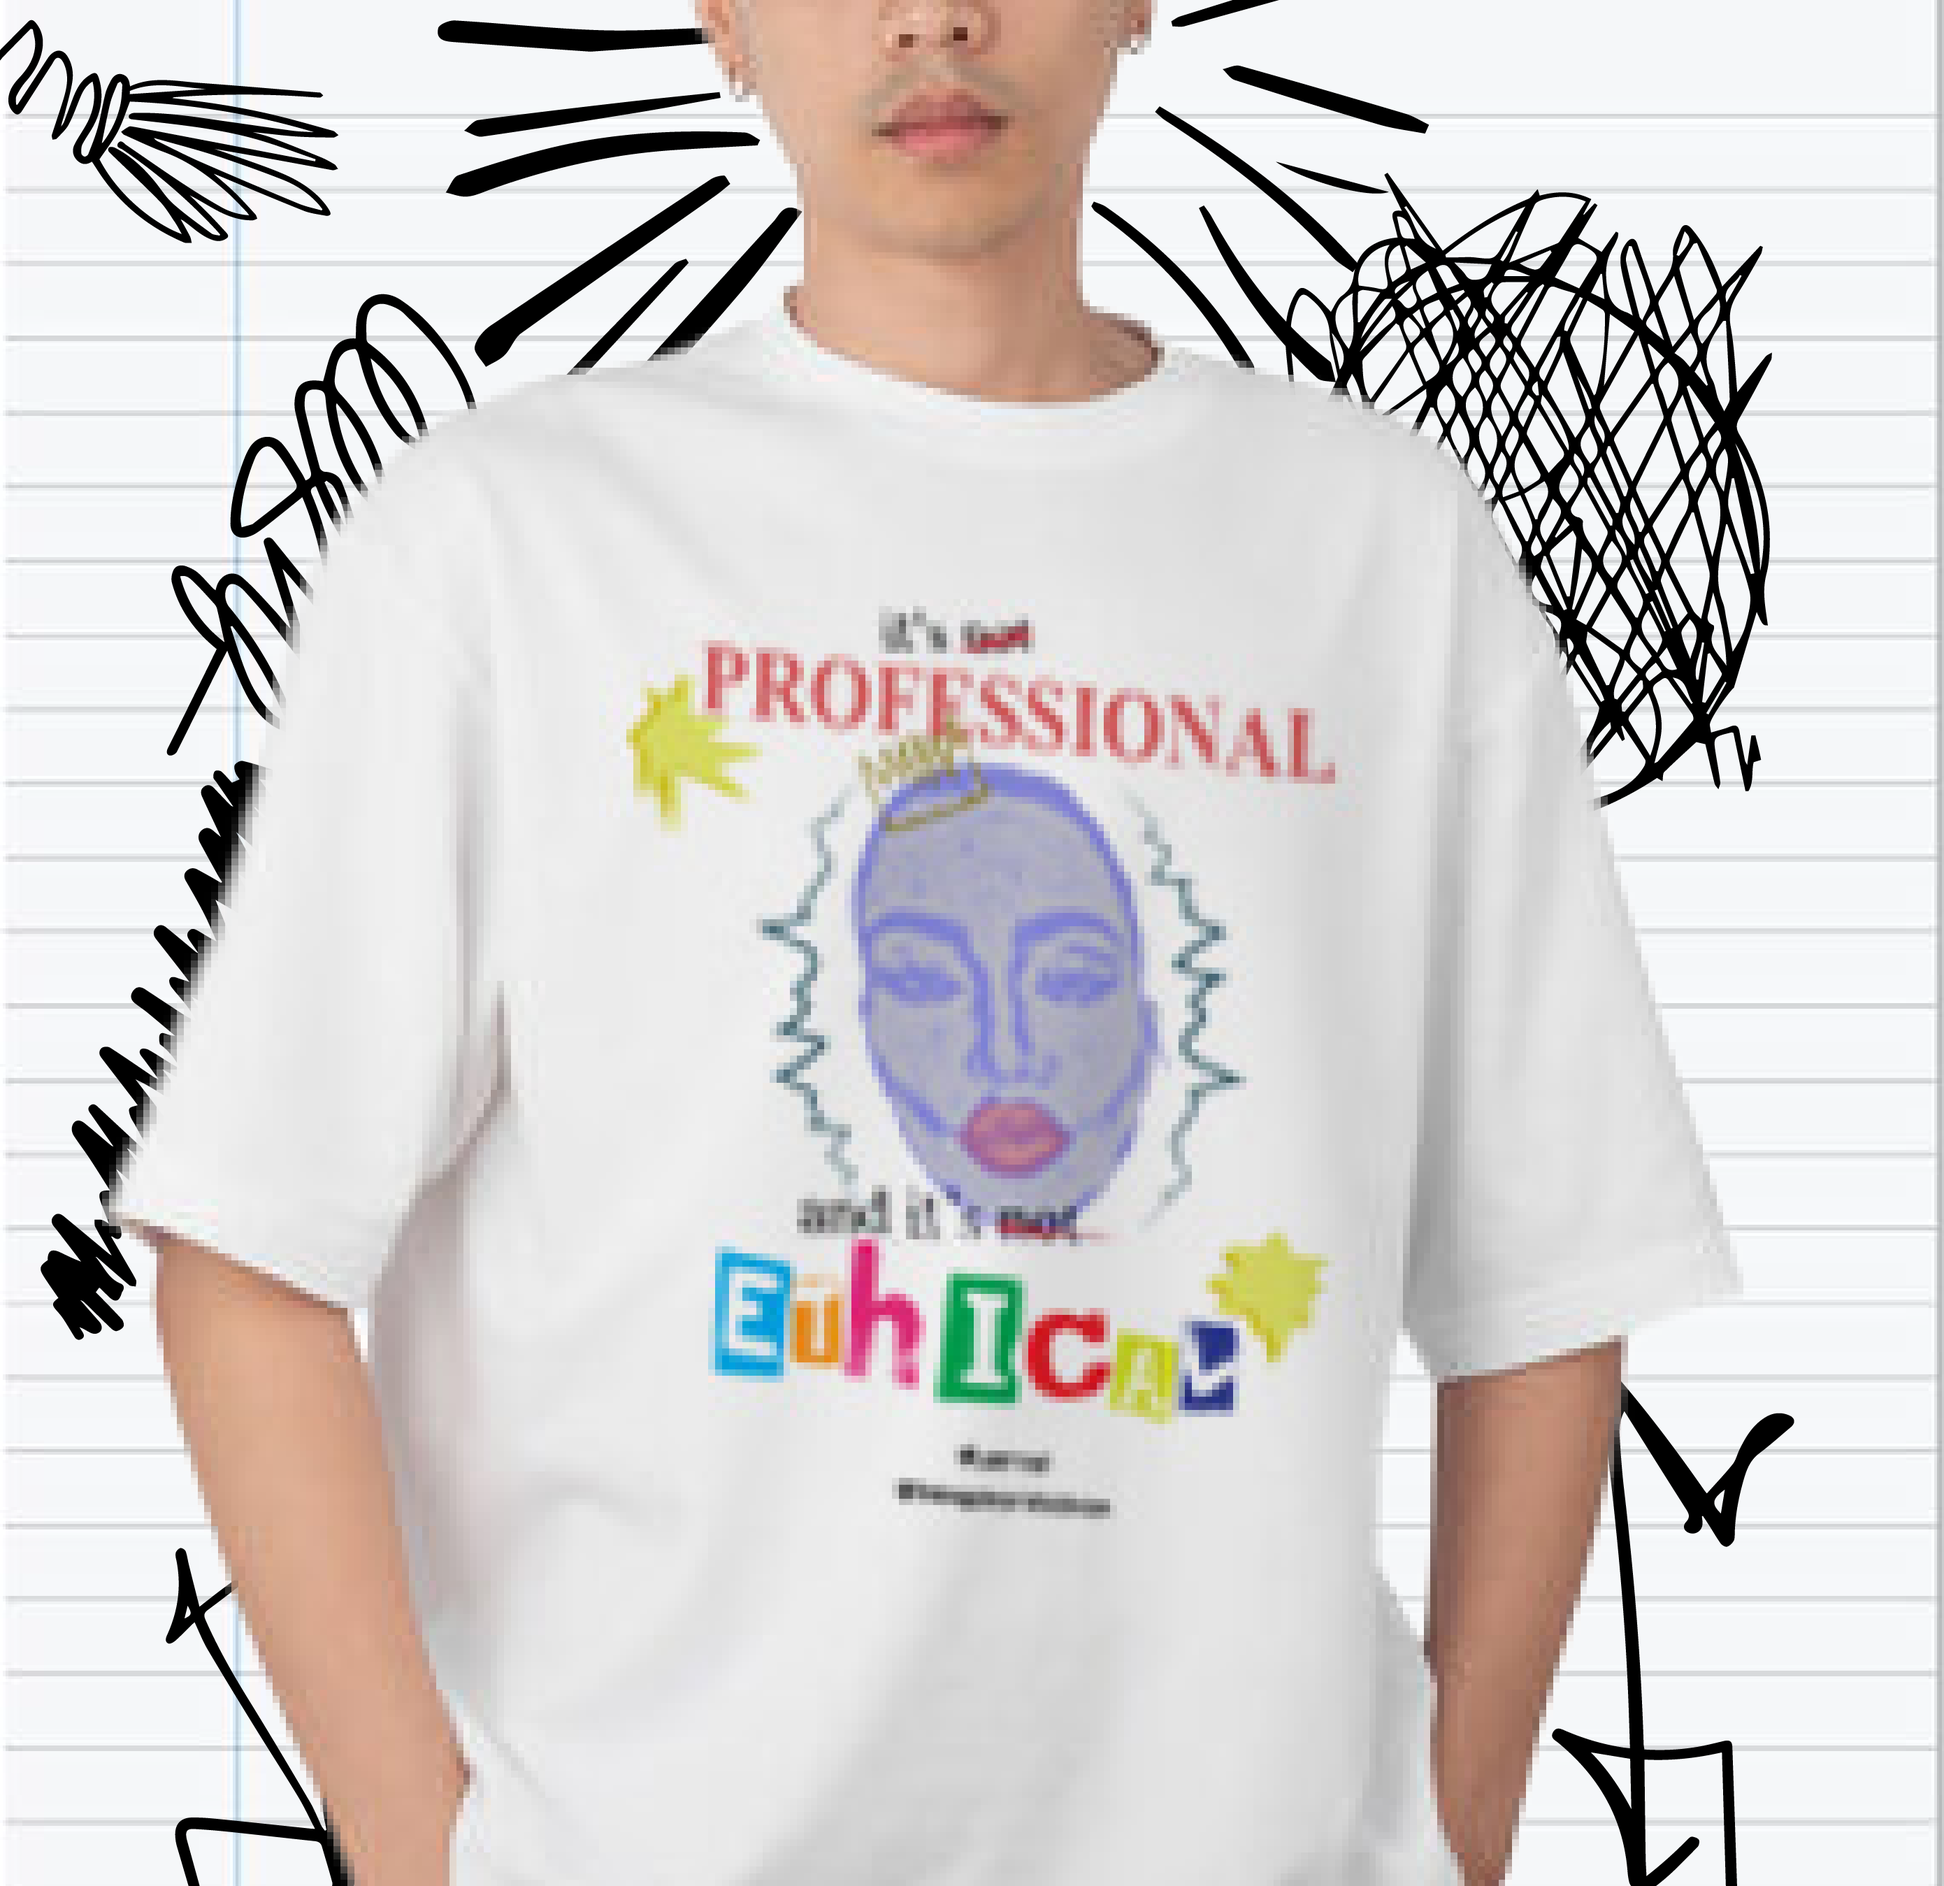
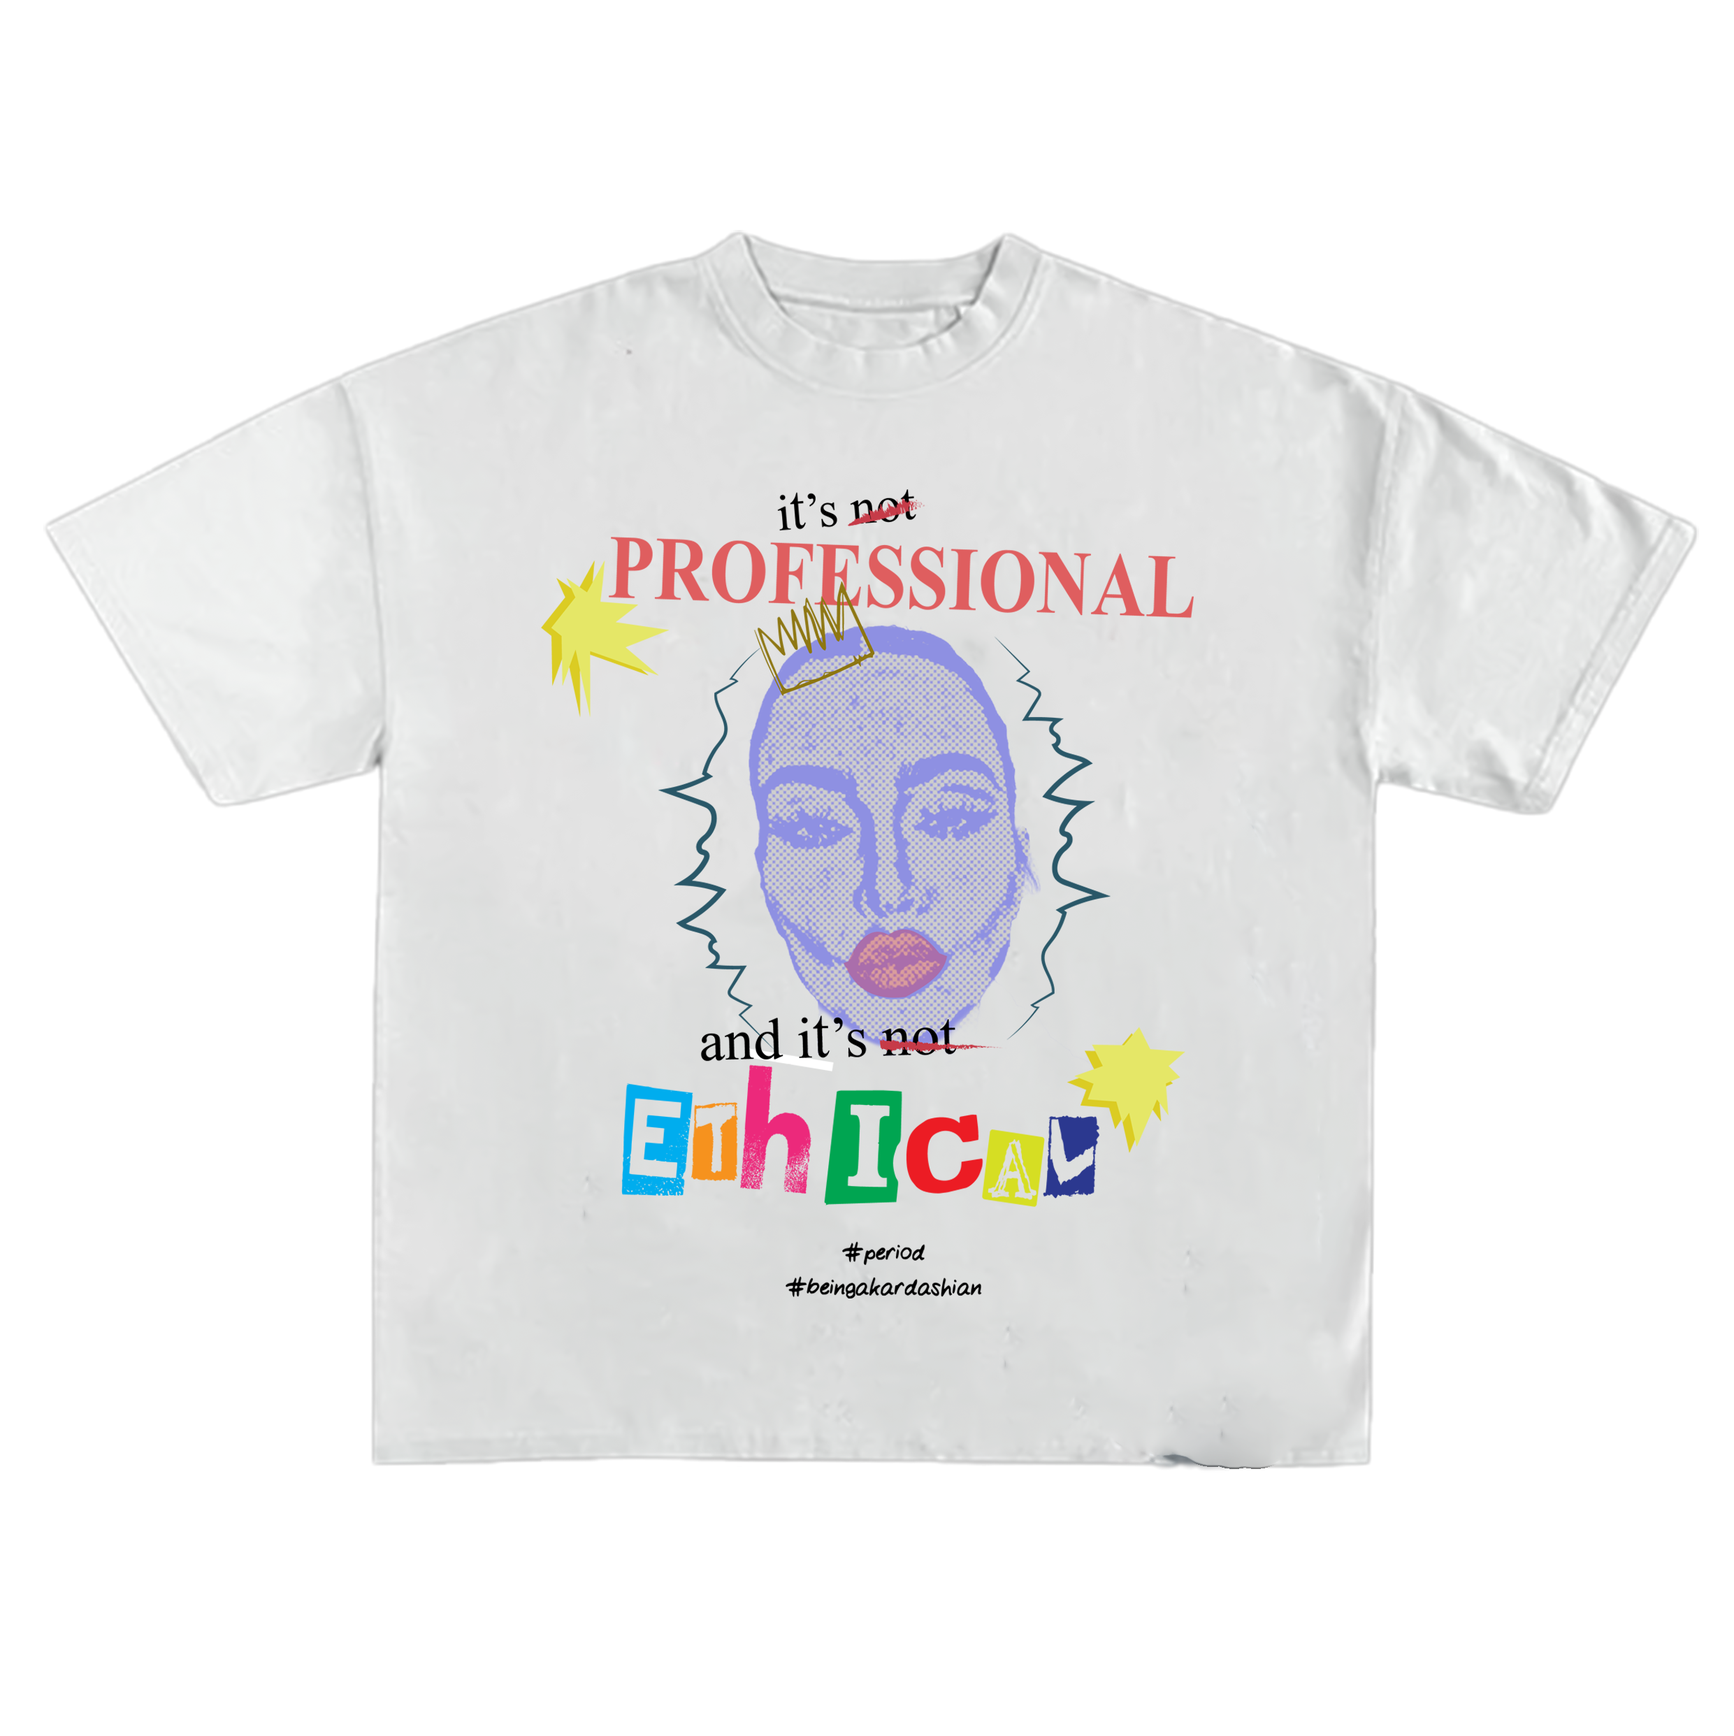
finalised t-shirt article
arranged the image grid and updated the image preview for the projects page.

diff --git a/Website Portfolio/t-shirt.html b/Website Portfolio/t-shirt.html
@@ -1,0 +1,75 @@
+<!DOCTYPE html>
+<html lang="en">
+
+<head>
+    <meta charset="UTF-8">
+    <meta name="viewport" content="width=device-width, initial-scale=1.0">
+    <title>T-Shirt Visual</title>
+
+    <link rel="stylesheet" href="assets/styling/articles/t-shirt.css">
+    <link rel="stylesheet" href="assets/styling/bootstrap.css">
+    <link rel="stylesheet" href="assets/styling/master.css">
+</head>
+
+<body class="black-bg">
+
+    <div class="container">
+        <div class="row">
+            <div class="back-arrow">
+                <a href="projects.html">
+                    <img src="assets/images/back-arrow-white.png" class="back-arrow" alt="Arrow">
+                </a>
+            </div>
+        </div>
+    </div>
+
+    <div class="row">
+        <div class="col-8">
+            <h1>T-Shirt Design - "its not professional and it's not ethical"</h1>
+
+            <p>The brief was to create a t-shirt design for a fashion company called "cringecore", which bring bold and
+                playful exploration of the "cringe" aesthetic, embracing humor, irony, and a touch of nostalgia. So I
+                thought of these two famous Tiktokers from the US, who impersonate the Kardashians and recreate scenes
+                from 'The Kardashians' TV Series. They refer to using quotes like "its not professional, and its not
+                ethical", "Nnyyeeaaahhh" or even a "your dramatic and pathetic, gurl bye!"... which is very sassy but
+                funny. I thought it works well with the brief, so I took on this decision to build up with and create
+                designs.
+                <br>
+                <br>
+                Here below are some of the other ideas I had, which I haven't use as the final idea. I wanted to explore
+                different styles and visual interpretations to show the idea, to make it look appealing as a t-shirt.
+                However, I wanted to keep up with a more constructed visual research, so I thought of sticking to a more
+                modern-grunge look to it.
+                <br>
+                <br>
+                Using photo manipulation, adding saturated colour and more treatment on texture, it helped everything to
+                blend in. With the help of visual research, I looked at text treatment, and noticed the idea of
+                dynamisim, using angles and serif-fonts. The final result came to this, here on the right. I am really
+                happy with the final design, and been thinking to actually print the design on a t-shirt in the future
+                soon.
+            </p>
+        </div>
+        <div class="col-4">
+            <img src="assets/images/t-shirt-visual1.png" class="preview5" alt="visual">
+        </div>
+    </div>
+
+    <h3>these are some other ideas & sketches I had for the T-Shirt Design</h3>
+    <div class="wrapper">
+        <div class="gallery">
+            <ul>
+                <li><img src="assets/images/sketch-02.png"></li>
+                <li><img src="assets/images/sketch-04.png"></li>
+                <li><img src="assets/images/sketch-09.png"></li>
+                <li><img src="assets/images/sketch-10.png"></li>
+                <li><img src="assets/images/sketch-16.png"></li>
+                <li><img src="assets/images/sketch-15.png"></li>
+                <li><img src="assets/images/sketch-18.png"></li>
+                <li><img src="assets/images/sketch-25.png"></li>
+            </ul>
+        </div>
+    </div>
+
+</body>
+
+</html>

diff --git a/Website Portfolio/assets/styling/articles/t-shirt.css b/Website Portfolio/assets/styling/articles/t-shirt.css
@@ -1,0 +1,140 @@
+body {
+    font-family: 'coolvetica';
+  }
+  
+  .black-bg {
+    background-color: black;
+  }
+  
+  .back-arrow img {
+    margin-top: 40px;
+    margin-left: -40px;
+    padding-bottom: 30px;
+    width: 70px;
+  }
+  
+  h1 {
+    color: white;
+    margin-left: 80px;
+    margin-top: 100px;
+    padding-top: 20px;
+    font-family: 'coolvetica';
+  }
+  
+  .col-8 p {
+    color: white;
+    font-family: Arial, Helvetica, sans-serif;
+    text-align: justify;
+    margin-left: 80px;
+    margin-right: 80px;
+    /* Adjust as needed */
+    padding-top: 40px;
+    z-index: 1;
+    position: relative
+  }
+  
+  .preview5 {
+    width: 400px;
+    padding-left: 10px;
+    margin-top: 160px;
+  }
+
+  h3 {
+	text-align: center;
+	font-family: 'coolvetica';
+	margin-left: 80px;
+	padding-top: 30px;
+  }
+
+  /* image grid display */
+
+  .wrapper {
+	width: 80%;
+	margin: 40px auto;
+}
+
+div.gallery {
+	margin-top: 30px;
+	}
+	
+	div.gallery ul {
+		list-style-type: none;
+		margin-left: 35px;
+		padding-bottom: 60px;
+}
+
+/* animation */
+div.gallery ul li, div.gallery li img {
+	-webkit-transition: all 0.1s ease-in-out;
+  	-moz-transition: all 0.1s ease-in-out;
+  	-o-transition: all 0.1s ease-in-out;
+  	transition: all 0.1s ease-in-out;
+}
+
+div.gallery ul li {
+	position: relative;
+	float: left;
+	width: 250px;
+	height: 250px;
+	margin: 5px;
+	padding: 5px;
+	z-index: 0;
+}
+
+/* Make sure z-index is higher on hover */
+/* Ensure that hover image overlapped the others */
+div.gallery ul li:hover {
+	z-index: 5;
+}
+
+/* Image is position nicely under li */
+div.gallery ul li img {
+	position: absolute;
+	left: 0;
+	top: 0;
+	border: 1px solid #dddddd;
+	padding: 5px;
+	width: 250px;
+	height: 250px;
+	background: #f0f0f0;
+}
+
+div.gallery ul li img:hover {
+	width: 300px;
+	height: 300px;
+	margin-top: -30px;
+	margin-left: -30px;
+	top: 10%;
+	left: 10%;
+}
+
+p.attribution {
+	font-family: 'Consolas';
+	color: #000;
+	clear: both;
+	text-align: center;
+	line-height: 25px;
+	padding-top: 30px;
+}
+
+p.attribution a {
+	color: #4c8d7c;
+}
+
+/* Responsive hack */
+@media only screen and (min-width: 499px) and (max-width: 1212px) {
+	.wrapper {
+		width: 500px;
+	}
+}
+
+@media only screen and (max-width: 498px) {
+	.wrapper {
+		width: 300px;
+	}
+
+	div.gallery ul {
+		list-style-type: none;
+		margin: 0;
+	}
+}

diff --git a/Website Portfolio/projects.html b/Website Portfolio/projects.html
@@ -70,7 +70,7 @@
     </div>
     <div class="img-box">
       <a href="t-shirt.html">
-        <img src="assets/images/t-shirt-visual1.png" />
+        <img src="assets/images/t-shirt-preview1.jpg" />
         <div class="transparent-box">
           <div class="caption">
             <p>'cringecore' T-Shirt Visual</p>
